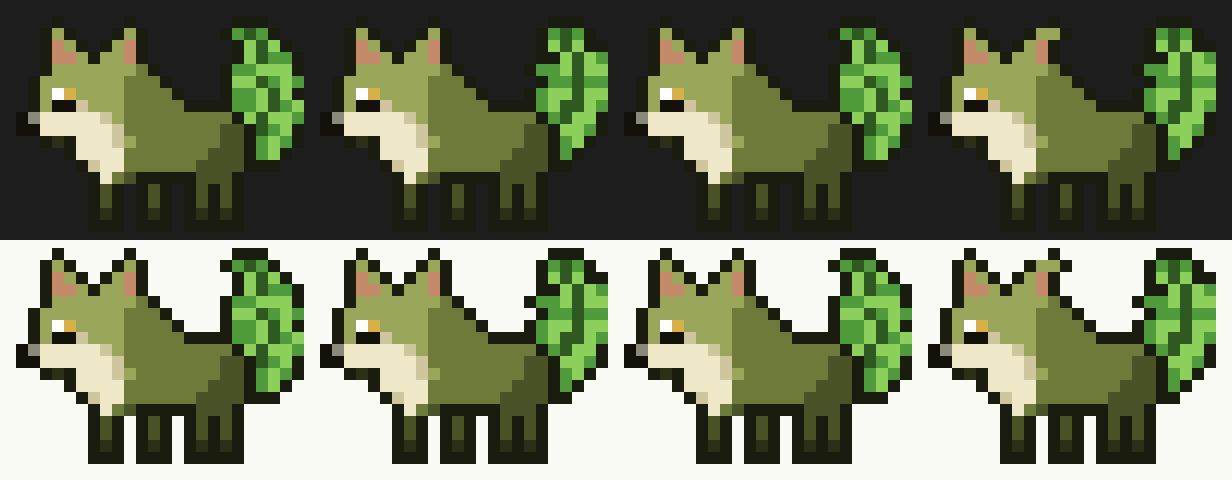
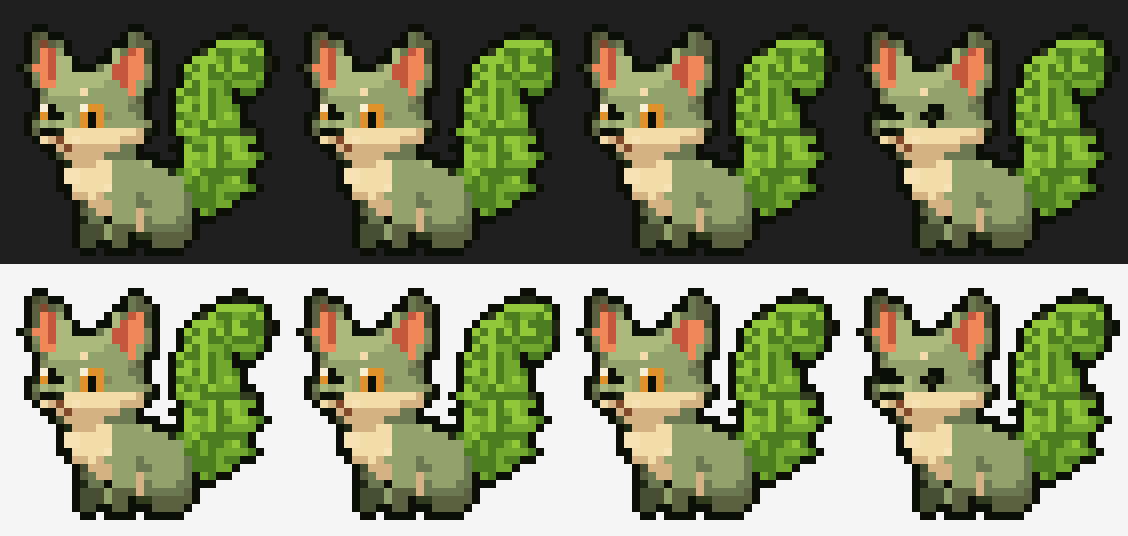
P5-19: redraw Fernox from @danielpg95's reference
Sitting fox kit with a fern-frond tail; tail wag, ear flick and blink.
Co-credited with @victor-aguilars, whose design it keeps.

diff --git a/docs/sessions/2026-10-14-danielpg95-P5-19.md b/docs/sessions/2026-10-14-danielpg95-P5-19.md
@@ -28,6 +28,8 @@ the three placeholders, add three new Modsters, and bring Whispering Forest to
 
 - Elderbark (#010, legendary) redrawn from @danielpg95's reference, added to this task on 2026-10-15: a close frame on the face with a clumpy canopy and branches, weathered bark, eyes always closed (its dex says they open once a year), a moss beard with flowers. 3 fps animation: the forehead crystal pulses, the canopy sways, a spark rises and a golden leaf drifts. 48×32, 24 colors. Credits note it replaces @victor-aguilars' design.
 
+- Fernox (#009, uncommon) redrawn from @danielpg95's reference: a sitting fox kit with a fern-frond tail (converted, with darker contours), hand-painted amber eyes; the head sprout was tried and dropped. 4 fps: tail wag, ear flick, blink. 34×32, 20 colors. Co-credited to @danielpg95 and @victor-aguilars.
+
 ## Decisions made
 
 - Sizes follow each tier, not the ≤ 14 px band limit. Almost every built-in Modster is already taller than that, so these show the compact band in an 80×24 terminal, like the rest.

diff --git a/plugin/content/CREDITS.md b/plugin/content/CREDITS.md
@@ -17,7 +17,7 @@ noted (decision 0011). Add a row whenever you add or change an asset.
 | `modsters/flopple/sprite.png` | @victor-aguilars (drawn with Claude Code) | CC BY 4.0 | |
 | `modsters/serpentide/sprite.png` | @victor-aguilars (drawn with Claude Code) | CC BY 4.0 | |
 | `modsters/sporrow/sprite.png` | @victor-aguilars (drawn with Claude Code) | CC BY 4.0 | |
-| `modsters/fernox/sprite.png` | @victor-aguilars (drawn with Claude Code) | CC BY 4.0 | |
+| `modsters/fernox/sprite.png` | @danielpg95 and @victor-aguilars (drawn with Claude Code) | CC BY 4.0 | Fernox, redrawn in P5-19 from @danielpg95's reference, keeping @victor-aguilars' design (fern-tail fox kit) |
 | `modsters/shardling/sprite.png` | @danielpg95 (drawn with Claude Code) | CC BY 4.0 | Crystal Grotto |
 | `modsters/glowcap/sprite.png` | @danielpg95 (drawn with Claude Code) | CC BY 4.0 | Crystal Grotto |
 | `modsters/mossmole/sprite.png` | @danielpg95 (drawn with Claude Code) | CC BY 4.0 | Crystal Grotto |

diff --git a/docs/ROADMAP.md b/docs/ROADMAP.md
@@ -564,3 +564,4 @@ Goal: users keep or remove built-ins and add, edit, and remove their own biomes 
   - [x] `npm run check:content` passes.
   - [x] A preview of every new or redrawn Modster in the PR description (enlarged, every frame, dark and light).
   - [x] Elderbark (#010, legendary) is redrawn to match the upgraded roster (up to 32 px tall, decision 0033), keeping its dex entry; its credits row notes it replaces @victor-aguilars' design (asked by @danielpg95, 2026-10-15).
+  - [x] Fernox (#009, uncommon) is redrawn to match the upgraded roster, keeping its dex entry; credited to @danielpg95 and @victor-aguilars, since it keeps his design (asked by @danielpg95, 2026-10-16).
